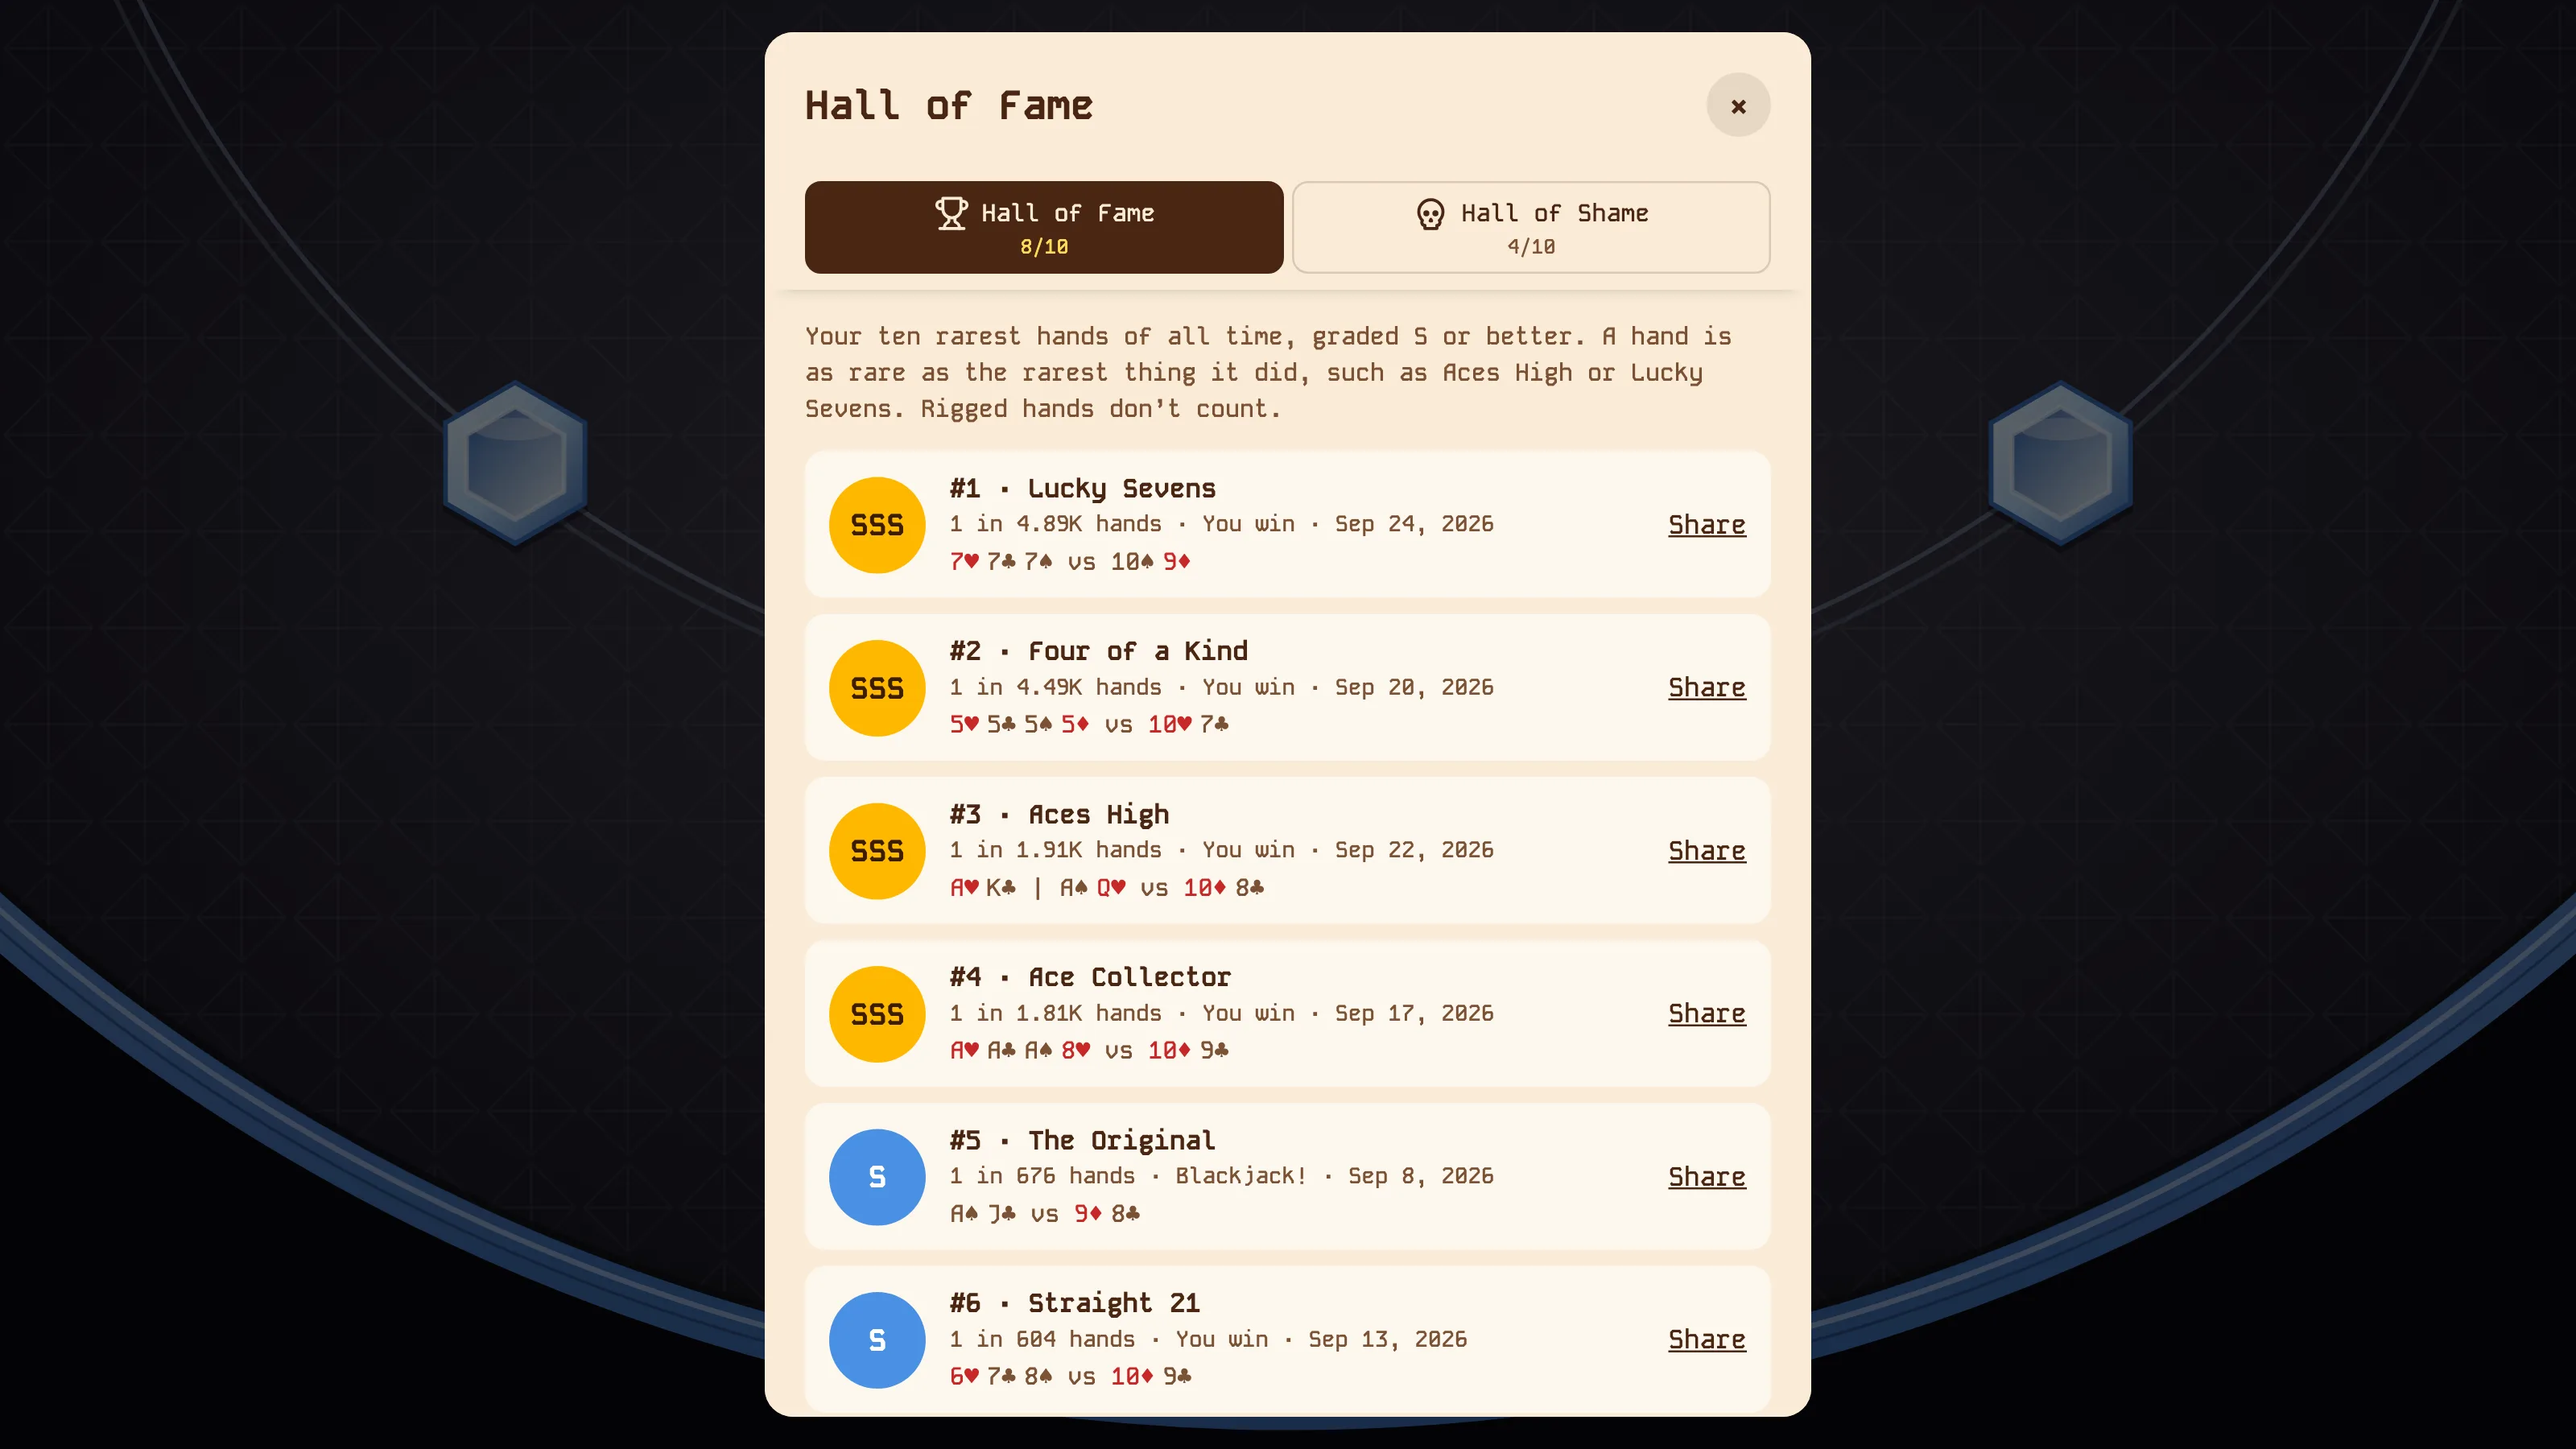
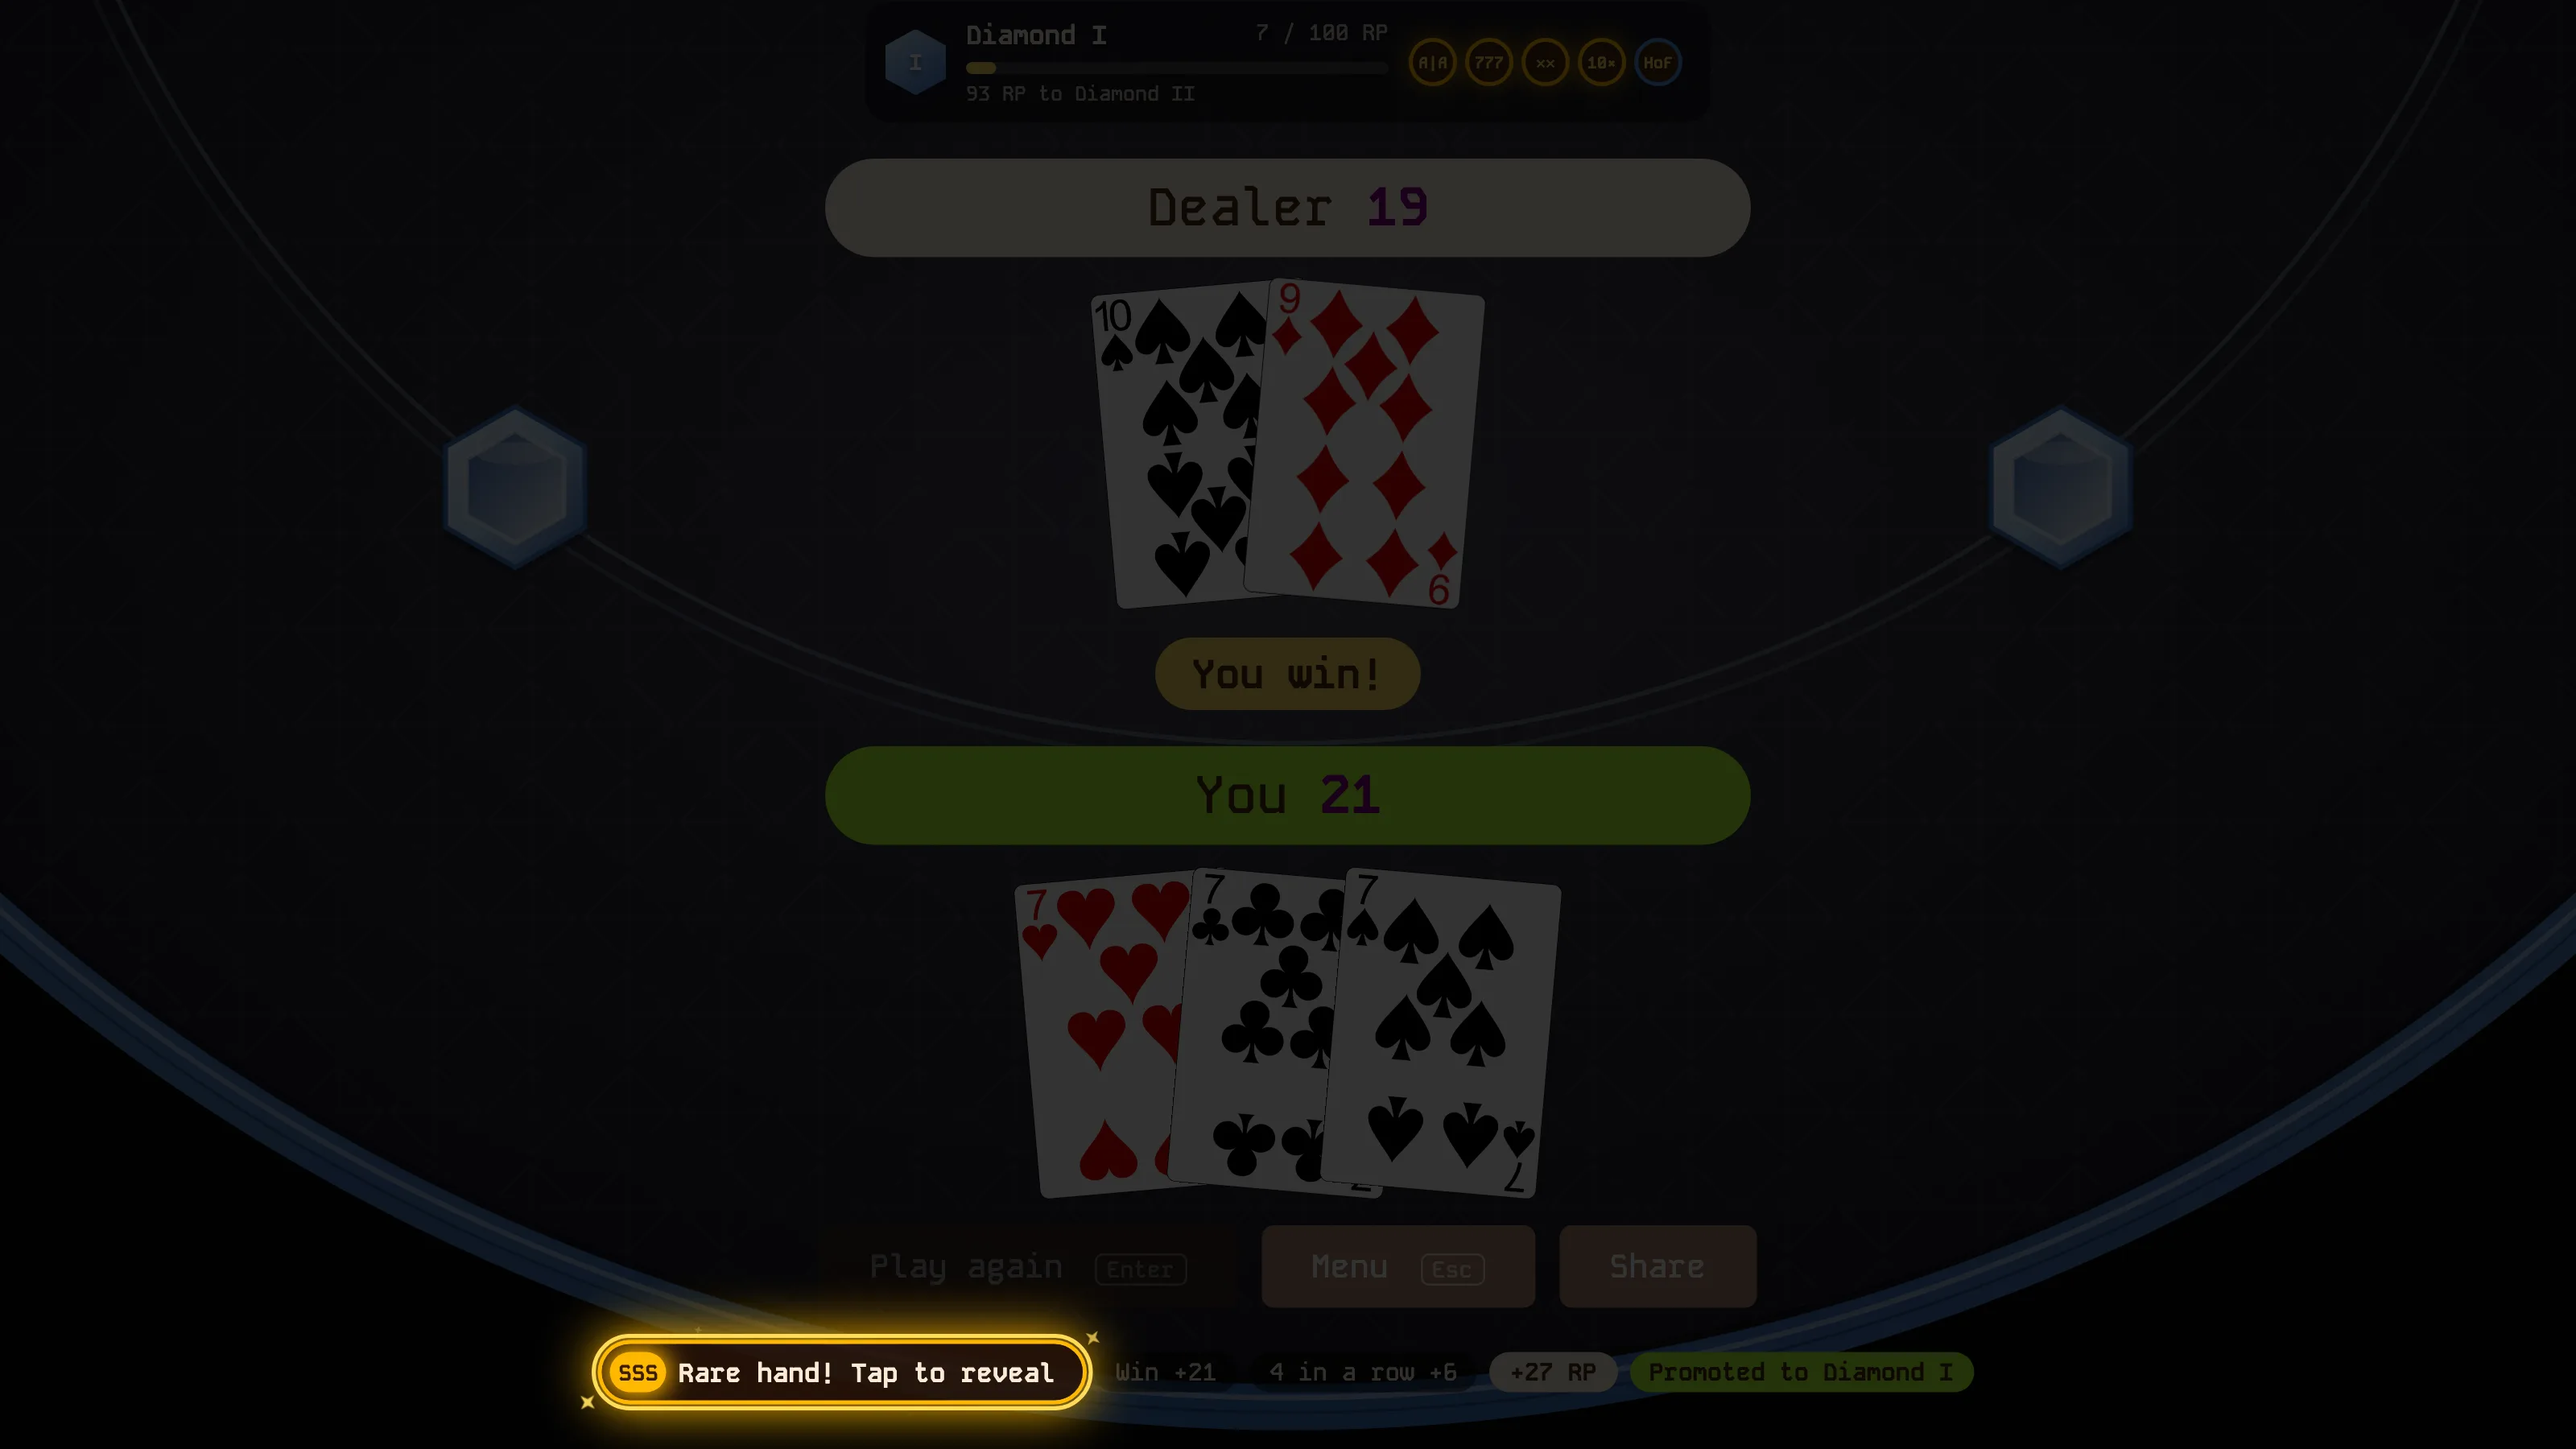
feat(portfolio): World's Best Boss unlock shot, and three short reflections
The BrownJack gallery adds the World's Best Boss card back unlocking after
the tier-up coin flip (eleven shots). "What stayed with me" drops from six
technical points to three short overviews: fairness, visible rewards, and
hands worth remembering.

diff --git a/src/constants/const.js b/src/constants/const.js
@@ -229,34 +229,19 @@ export const PROJECTS = [
     slug: "brownjack",
     reflections: [
       {
-        title: "The bug wasn't where it felt like it was",
+        title: "Fair before fun",
         description:
-          "When the game felt unfair, I expected to find a broken shuffle. The shuffle was fine; the real problems were two games running at once, a dealer that chased the player's total, and a running total that broke on face cards. I learned to test my assumptions before fixing the thing that seems most obviously wrong.",
-      },
-      {
-        title: "Tuning with simulations",
-        description:
-          "I found it interesting to design a ranking that gets harder as you climb. Instead of guessing point values, I simulated hundreds of thousands of hands of basic-strategy play to see how long each tier takes and how rare each badge really is, then tuned the numbers until the curve felt right.",
+          "Early on the game felt rigged against the player, and the cause turned out to be my own mistakes, not bad luck. I learned to question what I'm sure of before fixing what looks most obviously wrong, because a game only feels good once players trust it.",
       },
       {
         title: "Rewards worth chasing",
         description:
-          "I enjoyed turning progress into things you can see: tables and card backs drawn as SVG, a rank roadmap, collection points that fill toward the next table, and a card back for every Epic and Legendary badge, from a hockey mask to a World's Best Boss mug. I learned that a reward feels earned when the player can always see what's next and how close it is.",
+          "I enjoyed turning progress into things you can see and collect: ranks, badges, tables and card backs, from a hockey mask to a World's Best Boss mug. I learned that a reward feels earned when the player can always see what's next and how close it is.",
       },
       {
-        title: "Deciding what makes a hand rare",
+        title: "Every hand tells a story",
         description:
-          "My first rarity score used the chance of a hand's exact cards, but nearly every hand came out one in tens of thousands, and a blackjack scored like a dull 19. I switched to grading a hand by the rarest thing it did, measured over 20 million simulated hands, and added badges for painful hands so a brutal loss can rank as high as a great win. I learned that a good metric has to match what players actually find remarkable, not just what's easy to compute.",
-      },
-      {
-        title: "Details you feel more than see",
-        description:
-          "Small touches mattered more than I expected: pacing the dealer's reveal, a card sound I tuned by ear in a sound lab I built for it, a celebration that can't be skipped by a stray key press, and a table that never preselects Hit. I learned to test the feel of a game, not just whether it works.",
-      },
-      {
-        title: "Keeping the rules honest",
-        description:
-          "I kept the rules, scoring, rewards and save files as small pure modules with their own tests, separate from the page. That made it much easier to add doubles, splits, a six-deck shoe and monthly seasons without breaking what already worked, and to reject tampered or damaged save files.",
+          "I wanted memorable hands to be moments worth sharing, so rare hands get a grade, a spotlight and a place in a Hall of Fame, and brutal ones land in a Hall of Shame. I learned that players remember a painful loss as vividly as a great win, and that small touches like pacing and sound shape how a game feels.",
       },
     ],
     desc: "A browser Blackjack game with ranked seasons, 78 badges, 43 collectible card backs and 17 tables, hands graded D to SSS for rarity and shared as images, a Hall of Fame and a Hall of Shame, a basic-strategy coach, doubles and splits, and a daily challenge with the same deal for everyone.",
@@ -278,6 +263,7 @@ export const PROJECTS = [
       "brown8.webp",
       "brown9.webp",
       "brown10.webp",
+      "brown11.webp",
     ],
   },
   {
